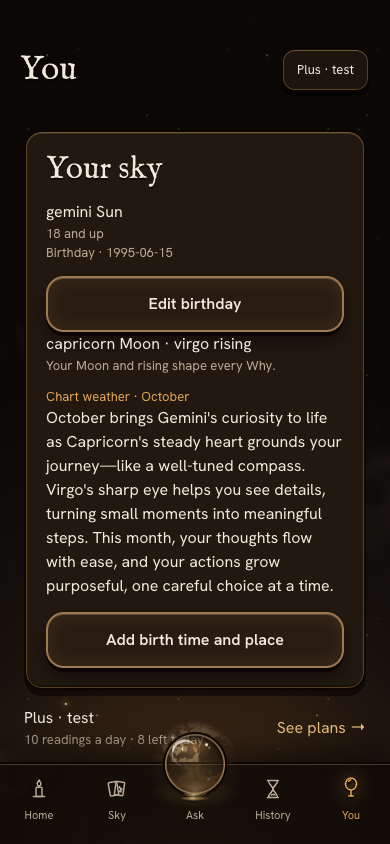
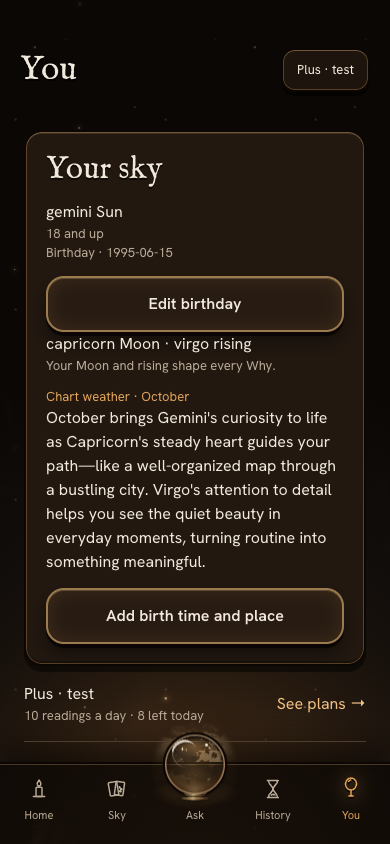
fix: keep one chart weather per Plus account and month on the server
Greptile follow-up. A service-only chart_weather table and claim functions
enforce Plus and store each month's single reading, so repeat or concurrent
requests reuse it; a changed chart waits for next month. Narration stops while
a replay is recorded, and chart weather must name a supplied sign within 15-60
words.

Changed region(s): [[0.0615, 0.4929, 0.9231, 0.9242]]

diff --git a/tests/plus-chart-voice.test.ts b/tests/plus-chart-voice.test.ts
@@ -11,7 +11,7 @@ const billed=(key:string)=>({SUPABASE_URL:'http://127.0.0.1:55321',SUPABASE_SERV
 
 // Fake Ollama and Supabase boundaries; the weather text is what the model "writes".
 function boundary(t:any,{plus=false,weather=['Gemini Sun, Pisces Moon and Virgo rising invite a slower, kinder pace this month. Let small rituals steady you.']}={}){
- const prompts:any[]=[];let weatherCalls=0;
+ const prompts:any[]=[],stored=new Map<string,string|null>(),rpcs:string[]=[];let weatherCalls=0;
  t.mock.method(globalThis,'fetch',async(input:unknown,init?:RequestInit)=>{
   const url=new URL(String(input)),body=init?.body?JSON.parse(String(init.body)):null;
   if(body?.messages){
@@ -25,9 +25,20 @@ function boundary(t:any,{plus=false,weather=['Gemini Sun, Pisces Moon and Virgo 
   if(url.pathname==='/auth/v1/user')return Response.json({id:viewer});
   if(url.pathname==='/rest/v1/reading_charges')return Response.json([]);
   if(url.pathname==='/rest/v1/rpc/reading_balance'||url.pathname==='/rest/v1/rpc/charge_reading')return Response.json(balance(plus));
+  // Mirrors the chart_weather claim functions (proved on PostgreSQL by scripts/chart-weather-rls.sql).
+  if(url.pathname.startsWith('/rest/v1/rpc/')&&url.pathname.includes('chart_weather')){
+   const name=url.pathname.slice(13),key=`${body.viewer}:${body.target_month}`;rpcs.push(name);
+   if(name==='claim_chart_weather'){
+    if(!plus)return Response.json({message:'Chart weather is a Plus extra'},{status:400});
+    if(!stored.has(key)){stored.set(key,null);return Response.json({claimed:true})}
+    const text=stored.get(key);return Response.json(text?JSON.parse(text):{claimed:false});
+   }
+   if(name==='save_chart_weather'){const saved=stored.get(key)??JSON.stringify({text:body.weather,chart:body.weather_chart});stored.set(key,saved);return Response.json(JSON.parse(saved).text)}
+   if(name==='release_chart_weather'){if(stored.get(key)===null)stored.delete(key);return new Response(null,{status:204})}
+  }
   throw new Error(`Unexpected URL: ${url}`);
  });
- return {prompts,weatherCalls:()=>weatherCalls};
+ return {prompts,stored,rpcs,weatherCalls:()=>weatherCalls};
 }
 const ask=(serve:(r:Request)=>Promise<Response>,body:object)=>serve(new Request('http://localhost/',{method:'POST',headers:{authorization:'Bearer user-token'},body:JSON.stringify({question:'Will I finish my course?',facts:{context_1:'Daily practice',horizon:'next month',birthday},viewerBirthday:birthday,localDate:'2026-10-06',requestId:'11111111-1111-4111-8111-111111111111',...body})}));
 
@@ -115,17 +126,32 @@ test('Circle-friend Why uses the viewer chart with the server Plus gate',async t
  }
 });
 
-test('chart weather is a Plus extra that names only the viewer’s signs',async t=>{
+test('chart weather is a Plus extra read once per month on the server',async t=>{
+ const today=new Date().toISOString().slice(0,10),month=new Date(`${today}T12:00:00Z`).toLocaleString('en-US',{month:'long',timeZone:'UTC'});
+ const weather=(serve:ReturnType<typeof handler>,extra:object={})=>ask(serve,{action:'chart',viewerChart:chart,localDate:today,...extra});
  let fake=boundary(t,{plus:false});
- const free=await ask(handler(billed),{action:'chart',viewerChart:chart});
+ const free=await weather(handler(billed));
  assert.equal(free.status,403);assert.equal(fake.weatherCalls(),0);
  t.mock.restoreAll();fake=boundary(t,{plus:true});
- const plus=await (await ask(handler(billed),{action:'chart',viewerChart:chart})).json();
- assert.equal(plus.kind,'ok');assert.match(plus.value.text,/Pisces Moon/);
- assert.deepEqual(fake.prompts.at(-1),{month:'October',sunSign:'gemini',...chart});
- t.mock.restoreAll();fake=boundary(t,{plus:true,weather:['Leo energy and your Pisces Moon promise a bright, steady month ahead of you.']});
- const strayed=await ask(handler(billed),{action:'chart',viewerChart:chart});
- assert.equal(strayed.status,400);assert.equal(fake.weatherCalls(),2,'one repair, then fail closed');
+ const serve=handler(billed),first=await (await weather(serve)).json();
+ assert.equal(first.kind,'ok');assert.match(first.value.text,/Pisces Moon/);
+ assert.deepEqual(fake.prompts.at(-1),{month,sunSign:'gemini',...chart});
+ const again=await (await weather(serve)).json();
+ assert.equal(again.value.text,first.value.text);assert.equal(fake.weatherCalls(),1,'a repeat request reuses the month');
+ assert.equal((await weather(serve,{localDate:'2020-01-15'})).status,400,'a far-off device date cannot open another month');
+ const changed=await weather(serve,{viewerChart:{moonSign:'leo',risingSign:'virgo'}});
+ assert.equal(changed.status,409,'a changed chart waits for next month instead of reusing the old signs');
+ assert.equal(fake.weatherCalls(),1);
+});
+
+test('chart weather fails closed on stray or generic text and gives the month back',async t=>{
+ const today=new Date().toISOString().slice(0,10);
+ for(const text of ['Leo energy and your Pisces Moon invite a bright and steady month ahead, full of small brave choices and kind moments.','This month invites a slower and kinder pace. Let small rituals steady you as the days grow shorter and calmer.']){
+  t.mock.restoreAll();const fake=boundary(t,{plus:true,weather:[text]});
+  const response=await ask(handler(billed),{action:'chart',viewerChart:chart,localDate:today});
+  assert.equal(response.status,400);assert.equal(fake.weatherCalls(),2,'one repair, then fail closed');
+  assert.deepEqual(fake.rpcs,['claim_chart_weather','release_chart_weather']);assert.equal(fake.stored.size,0);
+ }
 });
 
 test('chart weather follows the birth chart it came from',()=>{

diff --git a/server/omen.ts b/server/omen.ts
@@ -22,8 +22,8 @@ export async function personalOmen(facts:Facts,model:ModelProvider):Promise<stri
 }
 
 // A Plus user's monthly reflection from their Sun, Moon and rising; the app keeps one per month.
-export async function chartWeather(chart:{sunSign:string;moonSign:string;risingSign:string},localDate:string|undefined,model:ModelProvider):Promise<string>{
- const month=new Date(`${localDate??new Date().toISOString().slice(0,10)}T12:00:00Z`).toLocaleString('en-US',{month:'long',timeZone:'UTC'});
+export async function chartWeather(chart:{sunSign:string;moonSign:string;risingSign:string},yearMonth:string,model:ModelProvider):Promise<string>{
+ const month=new Date(`${yearMonth}-15T12:00:00Z`).toLocaleString('en-US',{month:'long',timeZone:'UTC'});
  const supplied=[chart.sunSign,chart.moonSign,chart.risingSign];
  const value=await model.json<{text:string}>(
   ballVoice+' Write this month’s chart weather: two short sentences of astrology-flavored reflection for the supplied month, using the supplied Sun, Moon and rising signs symbolically. Name the supplied signs; never name any other sign or invent planetary positions, transits or dates. It is reflection and entertainment, not a forecast of events: no guarantees, diagnoses, medical/legal/financial advice, or claims about another person’s feelings. Use 20 to 45 words.',
@@ -31,9 +31,11 @@ export async function chartWeather(chart:{sunSign:string;moonSign:string;risingS
   {type:'object',properties:{text:{type:'string',minLength:40,maxLength:320}},required:['text'],additionalProperties:false},
   value=>{
    if(!value||typeof value!=='object'||!('text'in value)||typeof value.text!=='string')return false;
-   const text=value.text.trim(),words=text.toLowerCase().split(/\W+/);
-   if(text.length<40||text.length>320||/[\r\n]/.test(text)||!/[.!?]$/.test(text))return {valid:false,feedback:'Write two complete sentences, 20 to 45 words in total, ending with punctuation.'};
+   const text=value.text.trim(),words=text.toLowerCase().split(/\W+/).filter(Boolean);
+   // Word range is looser than the prompt's 20-45 so a slightly long reflection does not fail closed.
+   if(text.length<40||text.length>320||words.length<15||words.length>60||/[\r\n]/.test(text)||!/[.!?]$/.test(text))return {valid:false,feedback:'Write two complete sentences, 20 to 45 words in total, ending with punctuation.'};
    if(signs.some(sign=>words.includes(sign)&&!supplied.includes(sign)))return {valid:false,feedback:`Name only these signs: ${supplied.join(', ')}.`};
+   if(!supplied.some(sign=>words.includes(sign)))return {valid:false,feedback:`Name the supplied signs: ${supplied.join(', ')}.`};
    if(voiceFlags(text).length)return {valid:false,feedback:'Keep it gentle and uncertain: no doom, certainty or claims about anyone’s secret feelings.'};
    return true;
   }

diff --git a/server/billing.ts b/server/billing.ts
@@ -78,7 +78,24 @@ export function billing(env:Env){
   if(!isStyle(ball)||!isStyle(card))throw new BillingError('Choose a ball and card style.',400);
   return rpc('set_profile_styles',{viewer,ball,card});
  }
- return {user,reconcile,simulate,styles,authorizeCharge,balance:(viewer:string)=>rpc('reading_balance',{viewer}),charge:(viewer:string,reading:string)=>rpc('charge_reading',{viewer,reading})};
+ // One chart weather per Plus user per month: the database claim decides who generates; everyone else reuses it.
+ async function chartWeather(viewer:string,month:string,chart:string,generate:()=>Promise<string>):Promise<string>{
+  const call=async(name:string,args:object)=>{
+   const response=await fetch(`${base}/rest/v1/rpc/${name}`,{method:'POST',headers:service,body:JSON.stringify({viewer,target_month:month,...args}),signal:AbortSignal.timeout(5000)});
+   const value=await response.json().catch(()=>null);
+   if(!response.ok&&/Plus extra/.test(value?.message))throw new BillingError('Chart weather is a Plus extra.',403);
+   if(!response.ok)throw new Error('Chart weather is unavailable. Please try again later.');
+   return value;
+  };
+  const claim=await call('claim_chart_weather',{});
+  if(typeof claim?.text==='string'){if(claim.chart===chart)return claim.text;throw new BillingError('You’ve read this month’s chart weather. A new one arrives next month.',409)}
+  if(claim?.claimed!==true)throw new BillingError('Your chart weather is still arriving. Try again in a moment.',409);
+  let text:string;
+  try{text=await generate()}catch(error){await call('release_chart_weather',{}).catch(()=>{});throw error}
+  const saved=await call('save_chart_weather',{weather:text,weather_chart:chart});
+  return typeof saved==='string'?saved:text;
+ }
+ return {user,reconcile,simulate,styles,authorizeCharge,chartWeather,balance:(viewer:string)=>rpc('reading_balance',{viewer}),charge:(viewer:string,reading:string)=>rpc('charge_reading',{viewer,reading})};
 }
 export type Billing=NonNullable<ReturnType<typeof billing>>;
 

diff --git a/server/handler.ts b/server/handler.ts
@@ -47,8 +47,13 @@ export function handler(env:(key:string)=>string|undefined,injectedModel?:ModelP
    }
    if(body.action==='chart'){
     if(!chart)throw new Error('Add your birth time and place in You first.');
-    if(!await plusChart(null))throw new BillingError('Chart weather is a Plus extra.',403);
-    return new Response(JSON.stringify({kind:'ok',value:{text:await chartWeather({sunSign:sunSign(viewerBirthday as string)!,...chart},localDate,omenModel)}}),{headers});
+    // The viewer's local month, which can differ from the server's by at most a day across time zones.
+    const today=new Date().toISOString().slice(0,10),day=typeof localDate==='string'?localDate:today;
+    if(Math.abs(Date.parse(day)-Date.parse(today))>86400000)throw new Error('Please check your device date.');
+    const month=day.slice(0,7),signs=[sunSign(viewerBirthday as string),chart.moonSign,chart.risingSign].join('/'),generate=()=>chartWeather({sunSign:sunSign(viewerBirthday as string)!,...chart},month,omenModel);
+    // With billing, the database enforces Plus and keeps the month's single reading; the loopback preview generates directly.
+    const text=meter?await meter.chartWeather(await meter.user(request),month,signs,generate):await generate();
+    return new Response(JSON.stringify({kind:'ok',value:{text}}),{headers});
    }
    const result=body.action==='omen'?{kind:'ok',value:{text:await personalOmen(facts,omenModel)}}:await makePlan(question,facts,model,context);
    return new Response(JSON.stringify(result),{headers});

diff --git a/src/BirthProfile.tsx b/src/BirthProfile.tsx
@@ -17,7 +17,7 @@ export function BirthProfile({aiConsent,onUpgrade}:{aiConsent:string|null;onUpgr
   try{const matches=await findBirthPlaces(place.trim(),abort.signal);if(!abort.signal.aborted){setPlaces(matches);if(!matches.length)setNotice('No matching city. Try a nearby town.');}}catch{if(!abort.signal.aborted)setNotice('City search is unavailable. Try again later.');}finally{if(!abort.signal.aborted)setBusy(false);}
  }
  const month=localDay().slice(0,7),weather=state.chartWeather?.month===month?state.chartWeather.text:null;
- // ponytail: one chart weather per month is kept on this device, like the daily omen; move the claim server-side if requests are abused.
+ // The server keeps one chart weather per account and month; this copy only avoids asking again.
  async function readWeather(){
   if(aiConsent===null||weatherBusy)return;setWeatherBusy(true);setNotice('');
   try{const text=await requestChartWeather(state,aiConsent);update(s=>s.moonSign&&s.birthday===state.birthday&&s.moonSign===state.moonSign&&s.risingSign===state.risingSign?{...s,chartWeather:{month,text}}:s);}catch(e){setNotice(e instanceof Error?e.message:'Chart weather is unavailable. Please try again later.');}finally{setWeatherBusy(false);}

diff --git a/app/index.tsx b/app/index.tsx
@@ -50,7 +50,7 @@ export default function App(){
  },[paywall,buying,backupBusy,state.balanceSnapshot?.owner,state.backupOwner]);
  useEffect(()=>{if(flow.stage!=='approach')return;const timer=setTimeout(()=>setFlow({stage:'listening'}),state.reduceMotion||systemReduce?0:1100);return()=>clearTimeout(timer)},[flow.stage,state.reduceMotion,systemReduce]);
  useDelight({enabled:!!state.ambientSound,listening:flow.stage==='approach'||flow.stage==='listening',thinking:flow.stage==='planning'||flow.stage==='research',revealId:flow.stage==='reveal'&&!reviewing?flow.prediction.id:undefined});
- const spoken=flow.stage==='reveal'&&!reviewing?narration(state,flow.prediction):null;
+ const spoken=flow.stage==='reveal'&&!reviewing&&!capture?narration(state,flow.prediction):null;
  useEffect(()=>{if(!spoken)return;speak(spoken);return stopSpeaking},[spoken,flow.stage==='reveal'?flow.prediction.id:null]);
  const [{friend,friendTarget},setReadingIdentity]=useState(()=>readingIdentity({friend:false}));
  const socialProfile=accountSocialProfile(state),socialReady=ready&&canRead(state);

diff --git a/README.md b/README.md
@@ -17,7 +17,7 @@ From a reveal or its share screen, choose Replay for recording for a clean 9:16 
 
 History also shows Your year in forecasts for the current year and each past year with saved readings. Plus reveals counts of readings, themes, golden finds and Yes check-ins, with no accuracy score; Free shows a Plus invitation for each year. Recaps use the readings saved on this device.
 
-With Plus and saved birth details, choose Read this month’s chart weather in You for a short symbolic reflection using your Sun, Moon and rising. It spends no reading credit and stays on this device for the current month; changing or forgetting birth details clears it. Allow AI processing in Ask first when prompted.
+With Plus and saved birth details, choose Read this month’s chart weather in You for a short symbolic reflection using your Sun, Moon and rising. It spends no reading credit. Each Plus account gets one chart weather per calendar month, kept on the server; changing or forgetting birth details clears this device’s copy, and a changed chart gets its new reading next month. Allow AI processing in Ask first when prompted.
 
 Plus also speaks each fresh reveal’s headline and speculative label using native or browser speech synthesis where available. Choose Mute the Ball on the reveal to stop it, or Let the Ball speak to enable it again; the preference stays on this device. Reopening a saved reading does not narrate it.
 

diff --git a/.agents/skills/verify-crystal-ball/features/plans.md b/.agents/skills/verify-crystal-ball/features/plans.md
@@ -17,4 +17,4 @@ With local Supabase plus `SOCIAL_MOCK_ENTITLEMENTS=true`, mock purchases and eve
 No real purchases in the preview; sandbox purchases need a signed iOS build and the accounts in docs/launch/billing.md. Native Apple/account/notification flows need configured accounts and a development build.
 
 ## Plus birth chart depth and narrated Ball
-Follow the [Plus chart and narration usage](../../../../README.md) and [profile/API contract](../../../../SETUP.md#reading-profile-and-birth-chart); `narration-toggle` controls speech. Run `VERIFY_URL=http://localhost:8097 node scripts/drive-plus-chart-voice.mjs` on an isolated live Ollama preview; it spies on browser speech synthesis only, and needs Open-Meteo city search. Evidence: docs/evidence/plus-chart-voice/. Native expo-speech output needs a device check.
+Follow the [Plus chart and narration usage](../../../../README.md) and [profile/API contract](../../../../SETUP.md#reading-profile-and-birth-chart); `narration-toggle` controls speech. Run `VERIFY_URL=http://localhost:8097 node scripts/drive-plus-chart-voice.mjs` on an isolated live Ollama preview; it spies on browser speech synthesis only, and needs Open-Meteo city search. Evidence: docs/evidence/plus-chart-voice/. Run `SOCIAL_PG_PORT=<free port> bash scripts/verify-social-db.sh` for the server-side monthly chart-weather claim (`scripts/chart-weather-rls.sql`). Native expo-speech output needs a device check.
